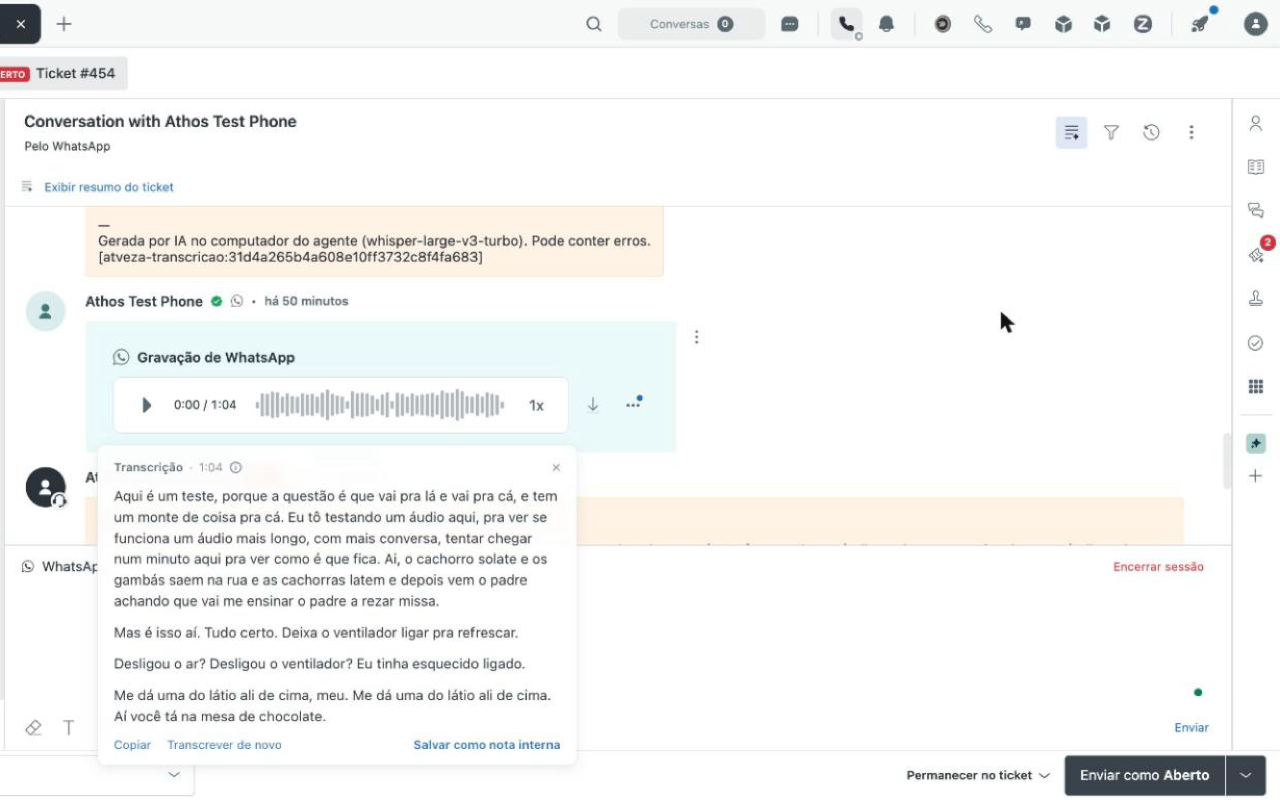
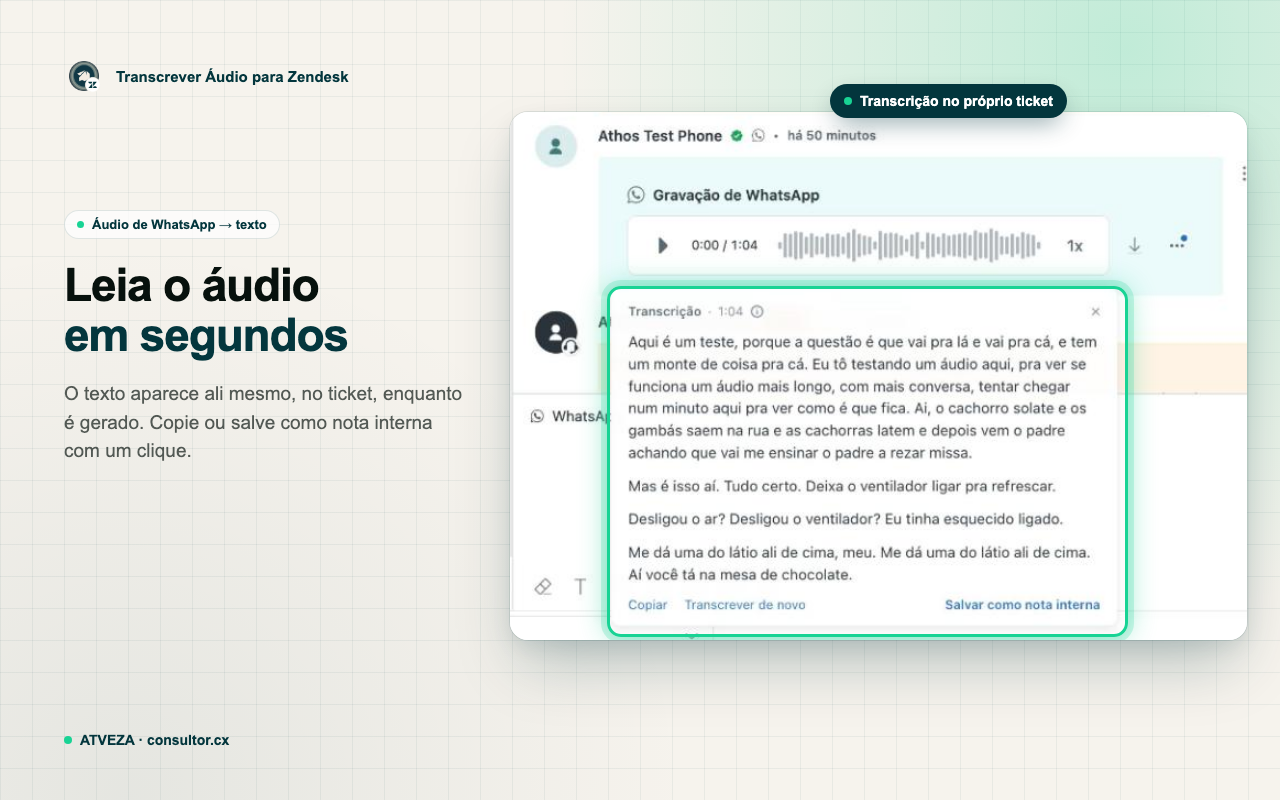
feat(store): composed screenshots in the consultor.cx look
Feedback: the store screenshots looked like raw prints.
- scripts/render-screenshots.mjs composes 1280x800 images: headline and
  copy on the left, the real screen cropped in a rounded card with the key
  element highlighted and labeled, consultor.cx grid and green glow.
- New third image on privacy (AI runs on the agent's computer).
- Raw captures kept in assets/store-raw/; 'npm run brand' renders icons,
  promo tile and screenshots; store:assets copies all three.

diff --git a/docs/publicar-passo-a-passo.md b/docs/publicar-passo-a-passo.md
@@ -4,12 +4,12 @@ O Chrome não deixa extensões nem navegadores automatizados mexerem nas página
 
 **Arquivos:** pasta `publicacao/` na raiz do projeto (gerada por `npm run store:assets`):
 
-| Arquivo                                                      | Onde usar                         |
-| ------------------------------------------------------------ | --------------------------------- |
-| `zendesk-whatsapp-audio-transcriber-public-0.3.0-chrome.zip` | Novo item → enviar pacote         |
-| `icone-128.png`                                              | Ficha → Ícone da loja             |
-| `captura-1-transcricao.png`, `captura-2-menu.png`            | Ficha → Capturas de tela          |
-| `promo-440x280.png`                                          | Ficha → Bloco promocional pequeno |
+| Arquivo                                                                        | Onde usar                         |
+| ------------------------------------------------------------------------------ | --------------------------------- |
+| `zendesk-whatsapp-audio-transcriber-public-0.3.0-chrome.zip`                   | Novo item → enviar pacote         |
+| `icone-128.png`                                                                | Ficha → Ícone da loja             |
+| `captura-1-transcricao.png`, `captura-2-menu.png`, `captura-3-privacidade.png` | Ficha → Capturas de tela          |
+| `promo-440x280.png`                                                            | Ficha → Bloco promocional pequeno |
 
 ## 1. Conta (menu à esquerda → Conta)
 
@@ -48,7 +48,7 @@ Itens → **+ Novo item** → enviar `zendesk-whatsapp-audio-transcriber-public-
 - **Categoria:** Produtividade → Fluxo de trabalho e planejamento
 - **Idioma:** Português (Brasil)
 - **Ícone da loja:** `icone-128.png`
-- **Capturas de tela:** `captura-1-transcricao.png` e `captura-2-menu.png`
+- **Capturas de tela:** `captura-1-transcricao.png`, `captura-2-menu.png` e `captura-3-privacidade.png` (nessa ordem)
 - **Bloco promocional pequeno:** `promo-440x280.png`
 - **Site oficial:** `https://consultor.cx`
 - **Suporte:** `mailto:athos@atveza.com`
